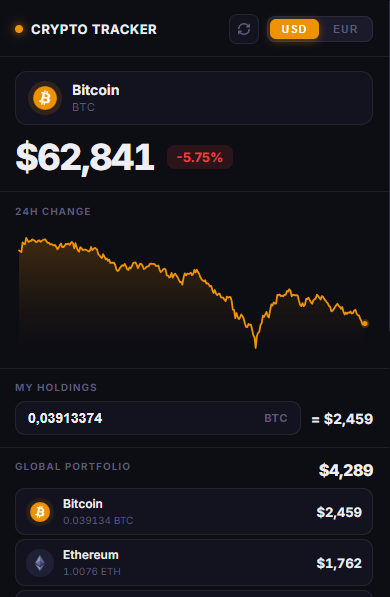
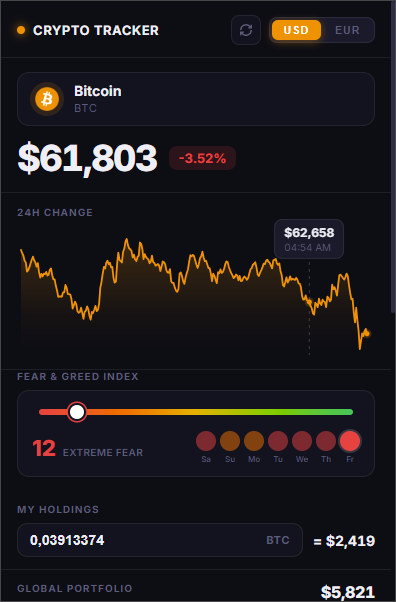
Add Fear & Greed Index feature

diff --git a/popup.css b/popup.css
@@ -999,3 +999,111 @@ body {
 .al-item:hover .al-remove { opacity: 1; }
 .al-remove:hover { color: var(--red); }
 .al-remove svg { width: 12px; height: 12px; }
+
+/* ─── FEAR & GREED INDEX ─────────────────────── */
+.fng-section {
+  padding: 0 16px 14px;
+}
+
+.fng-section > .section-label {
+  margin-bottom: 8px;
+}
+
+.fng-card {
+  background: var(--s1);
+  border: 1px solid var(--border);
+  border-radius: 12px;
+  padding: 12px 14px;
+  display: flex;
+  flex-direction: column;
+  gap: 10px;
+}
+
+.fng-bar-wrap {
+  width: 100%;
+  padding: 6px 7px;
+}
+
+.fng-bar-track {
+  width: 100%;
+  height: 6px;
+  border-radius: 3px;
+  background: linear-gradient(to right, #ef4444, #f97316 28%, #eab308 50%, #84cc16 72%, #22c55e);
+  position: relative;
+}
+
+.fng-bar-thumb {
+  position: absolute;
+  top: 50%;
+  transform: translate(-50%, -50%);
+  width: 14px;
+  height: 14px;
+  border-radius: 50%;
+  background: #fff;
+  pointer-events: none;
+  transition: left 0.4s ease;
+}
+
+.fng-bottom-row {
+  display: flex;
+  align-items: center;
+  justify-content: space-between;
+}
+
+.fng-val-group {
+  display: flex;
+  align-items: baseline;
+  gap: 7px;
+}
+
+.fng-value {
+  font-size: 22px;
+  font-weight: 800;
+  line-height: 1;
+}
+
+.fng-label {
+  font-size: 10px;
+  font-weight: 600;
+  color: var(--muted);
+  text-transform: uppercase;
+  letter-spacing: 0.04em;
+}
+
+.fng-history {
+  display: flex;
+  gap: 4px;
+  align-items: center;
+}
+
+.fng-hist-item {
+  display: flex;
+  flex-direction: column;
+  align-items: center;
+  gap: 3px;
+  cursor: default;
+}
+
+.fng-hist-dot {
+  width: 20px;
+  height: 20px;
+  border-radius: 50%;
+  opacity: 0.5;
+  transition: opacity 0.15s, transform 0.15s;
+}
+
+.fng-hist-dot.fng-hist-today {
+  opacity: 1;
+  box-shadow: 0 0 0 2px rgba(255,255,255,0.15);
+}
+
+.fng-hist-item:hover .fng-hist-dot {
+  opacity: 1;
+  transform: scale(1.1);
+}
+
+.fng-hist-lbl {
+  font-size: 8px;
+  color: var(--muted);
+  font-weight: 500;
+}

diff --git a/popup.js b/popup.js
@@ -817,6 +817,77 @@ function initAlerts() {
   loadAlerts();
 }
 
+// ─── FEAR & GREED INDEX ──────────────────────────
+const FNG_API = 'https://api.alternative.me/fng/';
+const FNG_CACHE_TTL = 4 * 60 * 60 * 1000; // 4 hours
+
+function fngColor(v) {
+  if (v <= 24) return '#ef4444';
+  if (v <= 44) return '#f97316';
+  if (v <= 55) return '#eab308';
+  if (v <= 74) return '#84cc16';
+  return '#22c55e';
+}
+
+function renderFearGreed(data) {
+  if (!data || !data.length) return;
+  const cur = data[0];
+  const val = parseInt(cur.value, 10);
+  const c   = fngColor(val);
+
+  const thumb = document.getElementById('fngThumb');
+  thumb.style.left      = val + '%';
+  thumb.style.boxShadow = `0 0 0 2px #13131f, 0 0 0 3.5px ${c}`;
+
+  const valEl = document.getElementById('fngValue');
+  valEl.textContent = val;
+  valEl.style.color = c;
+  document.getElementById('fngLabel').textContent = cur.value_classification;
+
+  const hist = document.getElementById('fngHistory');
+  hist.innerHTML = '';
+  const days = data.slice(0, 7).reverse();
+  days.forEach((d, i) => {
+    const v   = parseInt(d.value, 10);
+    const ts  = parseInt(d.timestamp, 10) * 1000;
+    const day = new Date(ts).toLocaleDateString('en-US', { weekday: 'short' }).slice(0, 2);
+    const isToday = i === days.length - 1;
+
+    const item = document.createElement('div');
+    item.className = 'fng-hist-item';
+    item.title = `${d.value_classification}: ${v}`;
+
+    const dot = document.createElement('div');
+    dot.className = 'fng-hist-dot' + (isToday ? ' fng-hist-today' : '');
+    dot.style.background = fngColor(v);
+
+    const lbl = document.createElement('span');
+    lbl.className = 'fng-hist-lbl';
+    lbl.textContent = day;
+
+    item.append(dot, lbl);
+    hist.appendChild(item);
+  });
+}
+
+async function loadFearGreed() {
+  const { fearGreedCache } = await chrome.storage.local.get('fearGreedCache');
+  if (fearGreedCache && Date.now() - fearGreedCache.ts < FNG_CACHE_TTL) {
+    renderFearGreed(fearGreedCache.data);
+    return;
+  }
+  try {
+    const res  = await fetch(`${FNG_API}?limit=7`);
+    const json = await res.json();
+    if (json.data?.length) {
+      await chrome.storage.local.set({ fearGreedCache: { data: json.data, ts: Date.now() } });
+      renderFearGreed(json.data);
+    }
+  } catch {
+    // silently fail — index updates once daily, stale cache is fine
+  }
+}
+
 // ─── REFRESH BUTTON ──────────────────────────────
 async function doRefresh() {
   const btn = document.getElementById('refreshBtn');
@@ -866,6 +937,7 @@ async function init() {
   // Fetch fresh data
   loadPrices();
   loadChart();
+  loadFearGreed();
 
   // React to triggered alerts fired by the background while popup is open
   chrome.storage.onChanged.addListener((changes) => {

diff --git a/popup.html b/popup.html
@@ -83,6 +83,25 @@
       </div>
     </div>
 
+    <!-- Fear & Greed Index -->
+    <div class="fng-section">
+      <div class="section-label">Fear &amp; Greed Index</div>
+      <div class="fng-card">
+        <div class="fng-bar-wrap">
+          <div class="fng-bar-track">
+            <div class="fng-bar-thumb" id="fngThumb"></div>
+          </div>
+        </div>
+        <div class="fng-bottom-row">
+          <div class="fng-val-group">
+            <span class="fng-value" id="fngValue">—</span>
+            <span class="fng-label" id="fngLabel">—</span>
+          </div>
+          <div class="fng-history" id="fngHistory"></div>
+        </div>
+      </div>
+    </div>
+
     <!-- Holdings -->
     <div class="holdings-section">
       <div class="section-label">My Holdings</div>